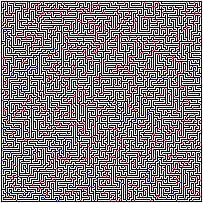
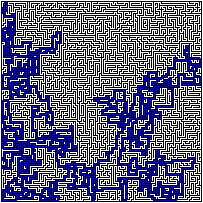
draw the solution

Changed region(s): [[0.0, 0.0, 1.0, 1.0], [0.266, 0.1478, 0.3251, 0.2069], [0.8276, 0.3251, 0.8571, 0.3547]]

diff --git a/src/maze/draw.go b/src/maze/draw.go
@@ -53,7 +53,7 @@ func DrawPath(m *maze, path []image.Point) {
 	current := 0
 	next := 1
 	for next < len(path) {
-		DrawPointConn(path[current], path[next], outImg)
+		DrawPointConn(m, path[current], path[next], outImg)
 		current = next
 		next++
 	}
@@ -65,6 +65,39 @@ func DrawPath(m *maze, path []image.Point) {
 }
 
 // DrawPointConn -
-func DrawPointConn(a, b image.Point, img changeable) {
+func DrawPointConn(m *maze, a, b image.Point, img changeable) {
 	img.Set(a.X, a.Y, color.RGBA{0, 0, 255, 255})
+	img.Set(b.X, b.Y, color.RGBA{0, 0, 255, 255})
+	start := 0
+	end := 0
+	write := "x"
+
+	if a.X == b.X {
+		if a.Y < b.Y {
+			start = a.Y
+			end = b.Y
+		} else {
+			start = b.Y
+			end = a.Y
+		}
+		write = "y"
+	} else if a.Y == b.Y {
+		if a.X < b.X {
+			start = a.X
+			end = b.X
+		} else {
+			start = b.X
+			end = a.X
+		}
+		write = "x"
+	}
+
+	for start < end {
+		if write == "x" {
+			img.Set(start, a.Y, color.RGBA{0, 0, 255, 255})
+		} else {
+			img.Set(a.X, start, color.RGBA{0, 0, 255, 255})
+		}
+		start++
+	}
 }

diff --git a/src/maze/solve.go b/src/maze/solve.go
@@ -102,6 +102,7 @@ func Solve(graph map[string]*models.Node, maze *models.Maze) []image.Point {
 		path = append(path, current.Point)
 		current = current.CameFrom
 	}
+	path = append(path, maze.Start)
 	return path
 }
 
@@ -122,6 +123,7 @@ func shouldMakeNode(p image.Point, maze *models.Maze) bool {
 		if (a.X == b.X) || (a.Y == b.Y) {
 			return false
 		}
+		return true
 	}
 	return false
 }

diff --git a/src/main.go b/src/main.go
@@ -26,7 +26,7 @@ func main() {
 	maze.MarkCorners(m)
 	maze.MarkDoors(m)
 	graph := maze.BuildGraph(m)
-	maze.DrawGraph(m, graph)
+	// maze.DrawGraph(m, graph)
 
 	path := maze.Solve(graph, m)
 	maze.DrawPath(m, path)
